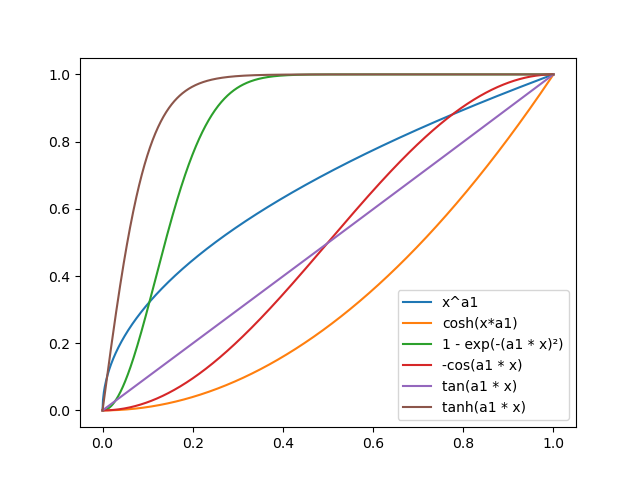
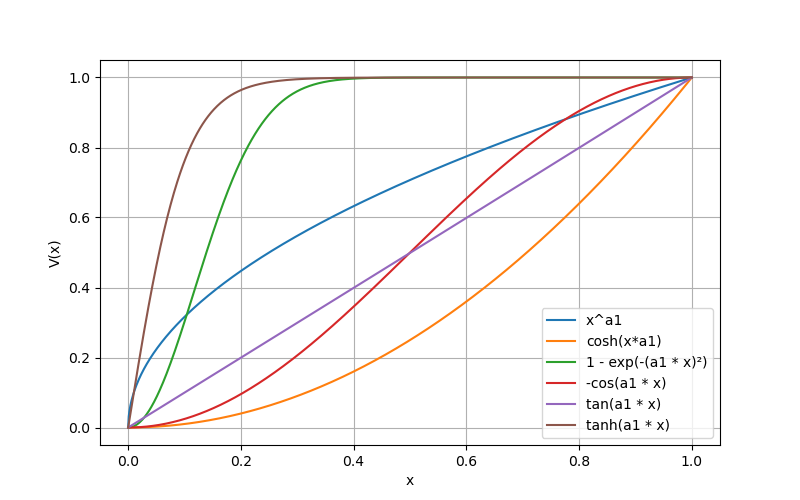
Kleine Änderungen

diff --git a/Julian/Assignment1/Assingment1.py b/Julian/Assignment1/Assingment1.py
@@ -1,7 +1,7 @@
 import numpy as np
 import matplotlib.pyplot as plt
-from Julian.Assignment1.Numeric_Integral import *
-from Julian.Assignment1.Findig_zeros import *
+from Numeric_Integral import *
+from Findig_zeros import *
 
 
 # region Aufgagabe 1a) 
@@ -301,7 +301,7 @@ ratio_values = []
 a1_best = []
 ratio_best = []
 
-plt.figure(num="Optimierung der Formparameter 1c)")
+plt.figure(num="Optimierung der Formparameter 1c)", figsize=(8,5))
 print("\n 1c)")
 # Schleife über die Potentiale: Verhältnis für alle a1 berechnen, bestes a1 wählen und plotten
 for i in range(len(V_x)):
@@ -315,6 +315,9 @@ for i in range(len(V_x)):
     print(f"Best a1 für V(x) = {V_x_txt[i]}: {a1_best[i]:.4f} mit Verhältnis: {ratio_best[i]:.4f}")
     plt.plot(x, normalize(V_x[i], a1_best[i], a)(x), label=V_x_txt[i])
 
+plt.xlabel("x")
+plt.ylabel("V(x)")
+plt.grid()
 print("\n")
 plt.legend()
 plt.savefig("1c).png")
